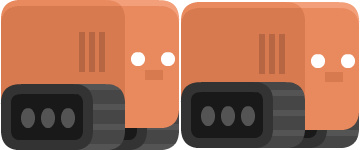
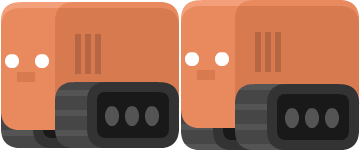
finished remise 1

diff --git a/game.js b/game.js
@@ -12,7 +12,7 @@ var pewpew;
 var life = 10;
 var life2 = 10;
 var lifeText;
-var life2Text
+var life2Text;
 
 var cursors;
 var keySpace;
@@ -41,14 +41,13 @@ class Game extends Phaser.Scene {
     preload(){
 
         this.load.image('sky', 'assets/images/sky.png');
-        this.load.spritesheet('knight', 'assets/images/knight.png', { frameWidth: 32, frameHeight: 28 });
-        this.load.spritesheet('slime', 'assets/images/slime_green.png', { frameWidth: 24, frameHeight: 24.4});
         this.load.spritesheet('floor', 'assets/images/platforms.png', { frameWidth: 14, frameHeight: 16})  
         this.load.spritesheet('fruit', 'assets/images/coin.png', { frameWidth: 16, frameHeight: 16});
         this.load.image("fruit2", "assets/images/fruit.png");
         this.load.audio('pew', 'assets/sounds/power_up.wav');
         this.load.spritesheet("tiles", "assets/images/tilemap_packed.png", {frameWidth: 18, frameHeight: 18});
         this.load.spritesheet("red_robot", "assets/images/red_robot3.png", {frameWidth: 180, frameHeight: 150});
+        this.load.spritesheet("green_robot", "assets/images/green_robot.png", {frameWidth: 156, frameHeight: 120});
     }
     
     create(data){
@@ -91,6 +90,7 @@ class Game extends Phaser.Scene {
 
     // Création du joueur et des collisions applicables
     player = this.physics.add.sprite(700, 400, 'red_robot');
+    player.setOffset(0,-8);
     player.setScale(0.3);
     player.setBounce(0.1);
     player.setCollideWorldBounds(true);
@@ -98,28 +98,27 @@ class Game extends Phaser.Scene {
     this.physics.add.collider(player, platforms2);
    
     // Création de l'ennemi et descollisions applicables
-    player2 = this.physics.add.sprite(100, 400, 'slime');
-    player2.setSize(20,16, true);
-    player2.setOffset(2,8);
-    player2.setScale(3);
+    player2 = this.physics.add.sprite(100, 400, 'green_robot');
+    player2.setOffset(0,-8);
+    player2.setScale(0.38);
     player2.setBounce(0.1);
     player2.setCollideWorldBounds(true);
     this.physics.add.collider(player2, platforms);
     this.physics.add.collider(player2, platforms2);
     
     //Création score
-    score1Text = this.add.text(16, 16, 'moneyP1: 100', { fontSize: '32px', fill: '#000' });
-    score2Text = this.add.text(500, 16, "moneyP2: 100", { fontSize: "32px", fill: "#000"});
-    lifeText = this.add.text(16, 50, 'lifeP1: 10', { fontSize: '32px', fill: '#000' });
-    life2Text = this.add.text(500, 50, "lifeP2: 10", { fontSize: "32px", fill: "#000"});
+    score1Text = this.add.text(16, 16, 'money: 100', { fontSize: '32px', fill: '#000' });
+    score2Text = this.add.text(500, 16, "money: 100", { fontSize: "32px", fill: "#000" });
+    lifeText = this.add.text(16, 50, 'life: 10', { fontSize: '32px', fill: '#000' });
+    life2Text = this.add.text(500, 50, "life: 10", { fontSize: "32px", fill: "#000"});
 
     
     this.physics.add.overlap(player2, pewpewsGroup1, damagePlayer2, null, this);
     function damagePlayer2 (player2, pewpewsGroup1)
     {
         pewpewsGroup1.disableBody(true, true);
-        life2 = life2 - 1;
-        life2Text.setText('life: ' + life2);
+        life = life - 1;
+        lifeText.setText('life: ' + life);
     }
 
     
@@ -127,32 +126,32 @@ class Game extends Phaser.Scene {
     function damagePlayer (player, pewpewsGroup2)
     {
         pewpewsGroup2.disableBody(true, true);
-        life = life - 1;
-        lifeText.setText('life: ' + life);
+        life2 = life2 - 1;
+        life2Text.setText('life: ' + life2);
     }
 
     this.physics.add.overlap(player, pewpewsGroup1, collectpewpew1, null, this);
     function collectpewpew1 (player, pewpewsGroup1)
     {
         pewpewsGroup1.disableBody(true, true);
-        score1 += 10;
-        score1Text.setText('moneyP1: ' + score1);
+        score2 += 10;
+        score2Text.setText('money: ' + score2);
     }
 
     this.physics.add.overlap(player2, pewpewsGroup2, collectpewpew2, null, this);
     function collectpewpew2 (player2, pewpewsGroup2)
     {
         pewpewsGroup2.disableBody(true, true);
-        score2 += 10;
-        score2Text.setText('moneyP2: ' + score2);
+        score1 += 10;
+        score1Text.setText('money: ' + score1);
     }
 
     // Gestion des collisions entre player2 et player
     this.physics.add.collider(player, player2, function(){
         life2 = life2 - 1;
         life = life - 1;
-        lifeText.setText('life: ' + life);
         life2Text.setText('life: ' + life2);
+        life1Text.setText('life: ' + life1);
         player.x = 700;
         player.y = 400;
         player2.x = 100;
@@ -160,7 +159,6 @@ class Game extends Phaser.Scene {
 
     }.bind(this)); 
 
-    //Création des animations - knight et slime ...
     this.anims.create({
         key: 'idle_robot',
         frames: this.anims.generateFrameNumbers('red_robot', { start: 0, end: 1 }),
@@ -170,11 +168,10 @@ class Game extends Phaser.Scene {
     });
 
     this.anims.create({
-        key: 'idle_slime',
-        frames: this.anims.generateFrameNumbers('slime', { start: 0, end: 3 }),
-        frameRate: 10,
+        key: 'idle_robot2',
+        frames: this.anims.generateFrameNumbers('green_robot', { start: 0, end: 1 }),
+        frameRate: 2,
         repeat: -1,
-        yoyo : true,
     });
 
     // Ajout des flèches du clavier
@@ -192,22 +189,6 @@ class Game extends Phaser.Scene {
     }
     
     update(time, delta){
-
-        if (score1 > 100) {
-            pewpewsGroup1.children.each(function (item){
-                item.destroy();
-            })
-            score1 = 100;
-            score1Text.setText('money: ' + score1);
-        }
-
-        if (score2 > 100) {
-            pewpewsGroup2.children.each(function (item){
-                item.destroy();
-            })
-            score2 = 100;
-            score2Text.setText('money: ' + score2);
-        }
 
         if(score1 < 0 ||  life <= 0){
             this.scene.switch('end2_scene');
@@ -227,7 +208,7 @@ class Game extends Phaser.Scene {
                 item.destroy();
             })
         }
-        player2.anims.play('idle_slime', true);
+        player2.anims.play('idle_robot2', true);
 
         if (cursors.left.isDown)
             {
@@ -275,11 +256,11 @@ class Game extends Phaser.Scene {
                 }
             if(keyW.isDown)
                 {
-                player2.anims.play('idle_slime', true);
+                player2.anims.play('idle_robot2', true);
                 }    
             if(player2.body.touching.down)
                 {
-                player2.anims.play('idle_slime', true);  
+                player2.anims.play('idle_robot2', true);  
                 }   
 
 
@@ -299,8 +280,8 @@ class Game extends Phaser.Scene {
                 this.physics.add.collider(pewpew2, platforms);
     
                 this.sound.play('pew');
-                score2 -= 10;
-                score2Text.setText('moneyP2: ' + score2);
+                score1 -= 10;
+                score1Text.setText('money: ' + score1);
                 
             }
         }
@@ -324,8 +305,8 @@ class Game extends Phaser.Scene {
                     this.physics.add.collider(pewpew, platforms);
         
                     this.sound.play('pew');
-                    score1 -= 10;
-                    score1Text.setText('money: ' + score1);
+                    score2 -= 10;
+                    score2Text.setText('money: ' + score2);
                     
                 } 
         } 

diff --git a/main.js b/main.js
@@ -20,7 +20,7 @@ var config = {
         default: 'arcade',
         arcade: {
             gravity: { y: 500 },
-            debug: false
+            debug: true
         }
     },
 };
